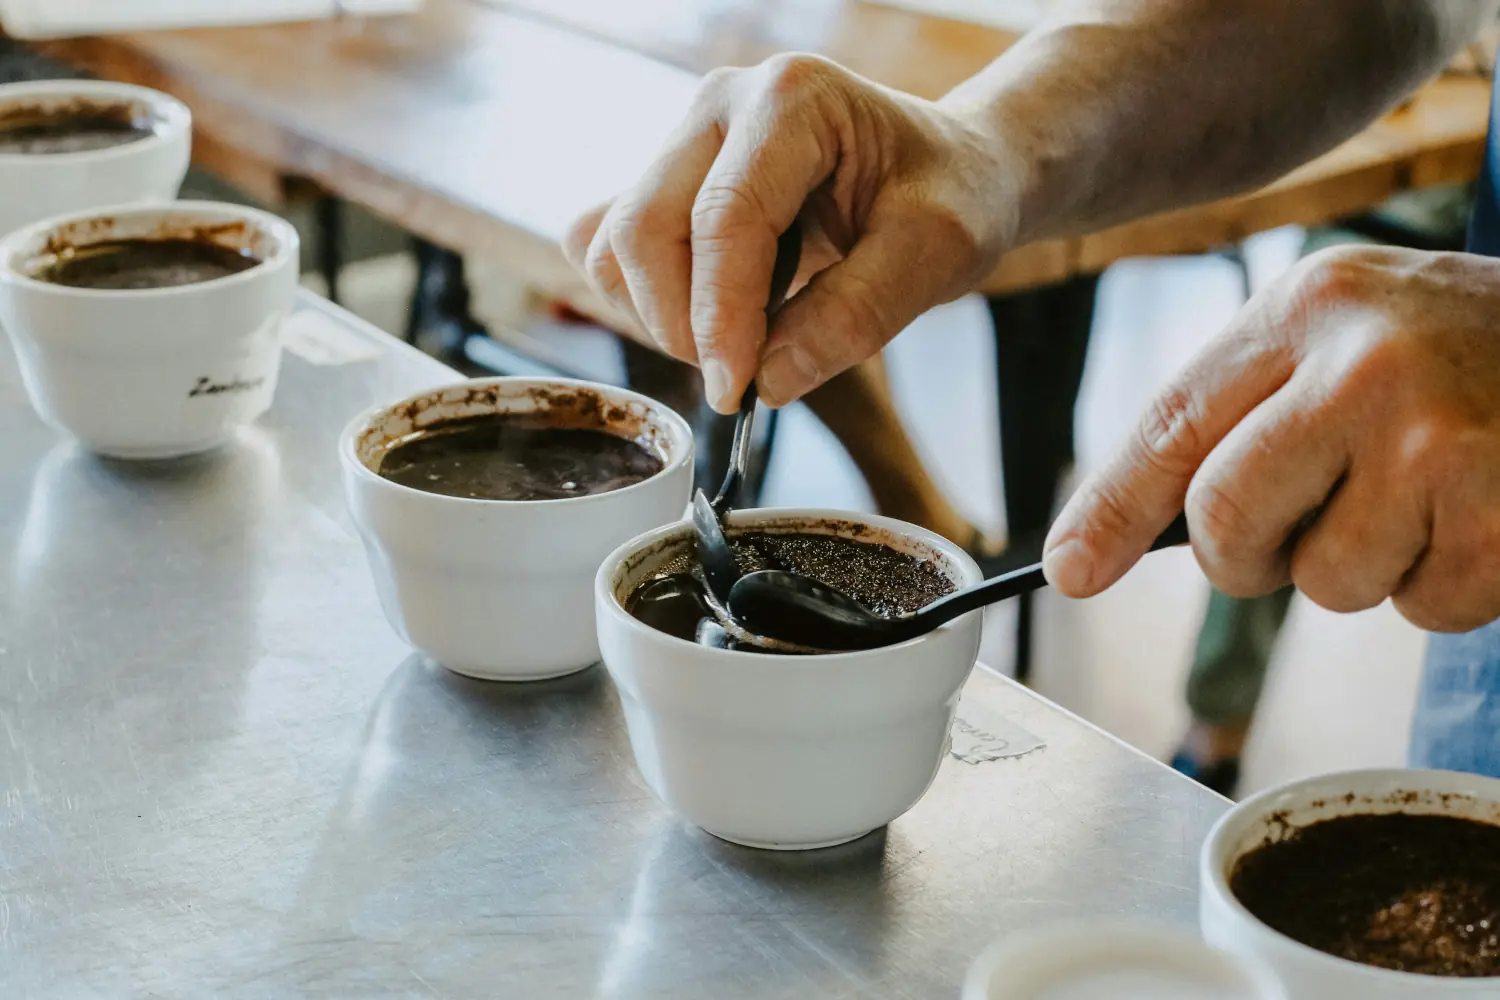
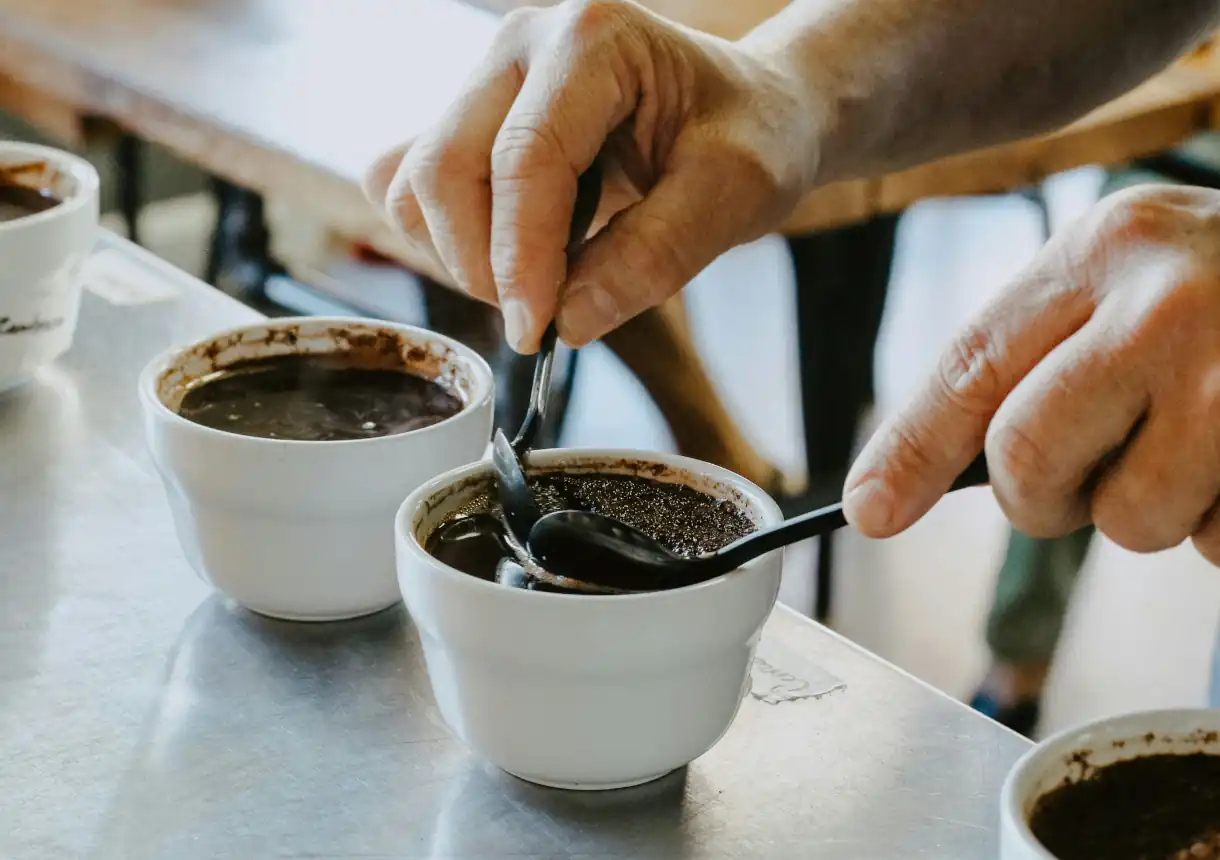
image tweaks

diff --git a/src/components/EventBanner.jsx b/src/components/EventBanner.jsx
@@ -3,14 +3,26 @@ import "./EventBanner.css";
 const EventBanner = () => {
   return (
     <div className="event-banner">
+        <picture>
+          <source
+
+            srcSet="https://koffee.us-east-1.linodeobjects.com/EventPic4k.webp"
+            media="(min-width: 2000px)"
+          />
+          <source
+            srcSet="https://koffee.us-east-1.linodeobjects.com/EventPicDesktop.webp"
+            media="(min-width: 917px)"
+          />
+          <source
+            srcSet="https://koffee.us-east-1.linodeobjects.com/EventPicMobile.webp"
+            media="(min-width: 0px)"
+          />
         <img
-          srcSet={`
-            https://koffee.us-east-1.linodeobjects.com/EventPic4k.webp 5472w,
-            https://koffee.us-east-1.linodeobjects.com/EventPicDesktop.webp 2560w,
-            https://koffee.us-east-1.linodeobjects.com/EventPicMobile.webp 980w`}
-          alt="an photo looking straight down at a cup of coffee on a plain, empty surface"
+          src="https://koffee.us-east-1.linodeobjects.com/EventPicMobile.webp"
+          alt="a closeup of barista's hands making coffee"
           loading="lazy"
         />
+        </picture>
       <div className="event-call-to-act">
         <h3>Come to our coffee party!</h3>
         <button>SEE DETAILS</button>

diff --git a/src/components/EventBanner.css b/src/components/EventBanner.css
@@ -9,6 +9,8 @@
 }
 
 .event-banner img {
+  position: relative;
+  left: -10rem;
   height: 100%;
 }
 
@@ -20,6 +22,7 @@
 
 @media screen and (min-width: 917px) {
   .event-banner img {
+    position: static;
     height: auto;
     width: 100vw;
   }
